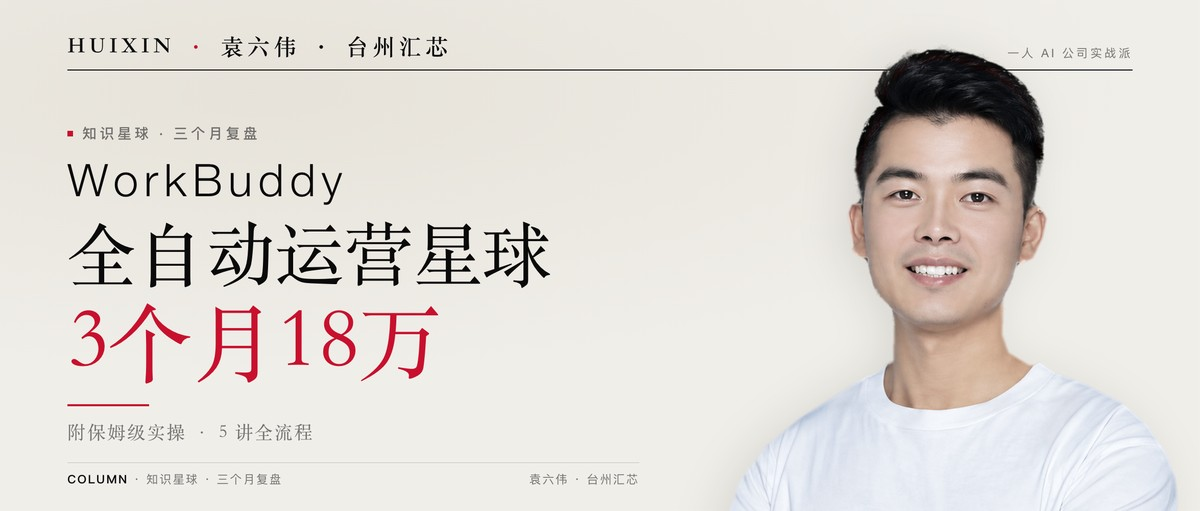
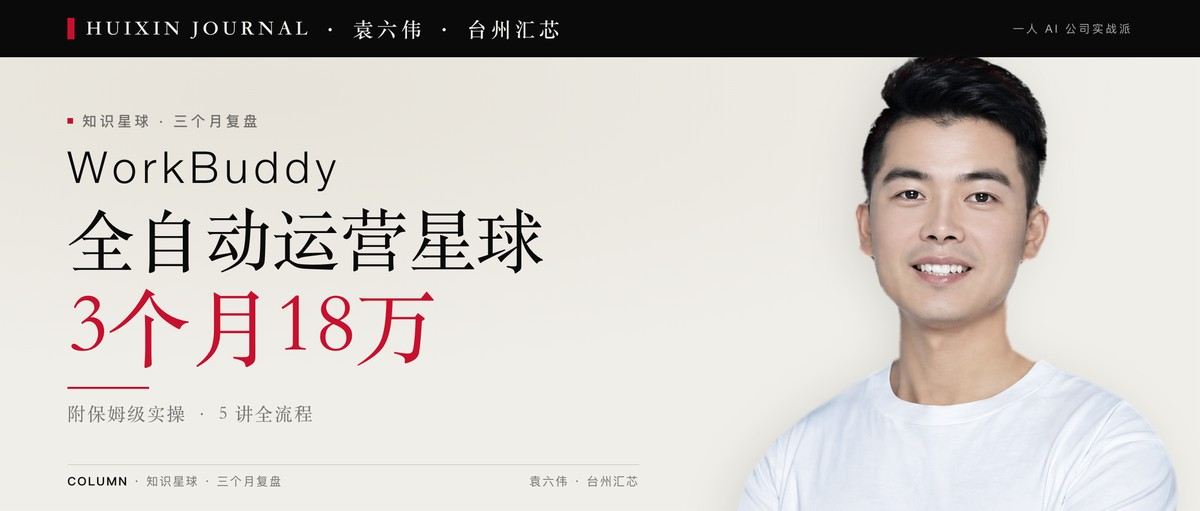
feat: high-contrast 6 cover layouts and cache-busting showcase v3

diff --git a/skills/公众号封面skill/scripts/render_cover_themes.py b/skills/公众号封面skill/scripts/render_cover_themes.py
@@ -291,34 +291,35 @@ def build_html(brief: dict, theme_key: str, portrait_uri: str, psize=(817, 883))
     <span class="strip-tag">{b['ip_tag']}</span>
   </div>"""
 
-    # 2) masthead：大刊报头 + 人物头顶破框叠压刊头细线
+    # 2) masthead：大刊报头（满宽深墨黑刊头条 + 人物头顶破框叠压）
     elif layout == "masthead":
-        p_h = 980
+        p_h = 960
         p_w = round(p_h * pw_ratio)
         p_left = W - p_w - 40
-        p_top = 86  # 刻意低于顶部 136px 报头线以下一点，使头部轻微破框叠压报头线
-        titles = _titles_html(b["lines"], t["weight"], 136, 168)
+        p_top = 92
+        titles = _titles_html(b["lines"], t["weight"], 134, 166)
         css = _base_css(t, theme_key) + f"""
-.masthead{{position:absolute;left:{TEXT_X}px;right:{TEXT_X}px;top:52px;height:86px;
-  border-bottom:2px solid {t['ink']};display:flex;justify-content:space-between;align-items:flex-end;padding-bottom:16px;z-index:1}}
-.mast-title{{font-family:{SERIF};font-size:44px;font-weight:700;letter-spacing:.18em;color:{t['ink']}}}
-.mast-title em{{font-style:normal;color:{t['accent']}}}
-.mast-meta{{font-family:{t['small_family']};font-size:23px;letter-spacing:.20em;color:{t['muted']};text-transform:uppercase}}
+.masthead{{position:absolute;left:0;right:0;top:0;height:112px;background:{t['ink']};
+  padding:0 {TEXT_X}px;display:flex;justify-content:space-between;align-items:center;z-index:1}}
+.mast-title{{font-family:{SERIF};font-size:40px;font-weight:700;letter-spacing:.18em;color:{t['paper']};
+  display:flex;align-items:center;gap:22px}}
+.mast-title .red-bar{{width:14px;height:42px;background:{t['accent']};display:inline-block}}
+.mast-meta{{font-family:{t['small_family']};font-size:22px;letter-spacing:.20em;color:rgba(241,239,234,.72);text-transform:uppercase}}
 .portrait{{position:absolute;left:{p_left}px;top:{p_top}px;width:{p_w}px;height:{p_h}px;
   object-fit:contain;object-position:bottom;filter:{SHADOW[theme_key]};z-index:2}}
-.txt{{position:absolute;left:{TEXT_X}px;top:210px;width:1160px;height:690px;z-index:3;
+.txt{{position:absolute;left:{TEXT_X}px;top:170px;width:1160px;height:710px;z-index:3;
   display:flex;flex-direction:column;justify-content:center}}
 .kicker{{margin-bottom:26px}}
-.brand{{font-size:88px;margin-bottom:16px}}
-.rule{{width:160px;height:4px;background:{t['accent']};margin:34px 0 24px}}
-.bottom-bar{{position:absolute;left:{TEXT_X}px;bottom:46px;width:1120px;border-top:1px solid {t['hair']};
+.brand{{font-size:86px;margin-bottom:16px}}
+.rule{{width:160px;height:4px;background:{t['accent']};margin:32px 0 22px}}
+.bottom-bar{{position:absolute;left:{TEXT_X}px;bottom:42px;width:1120px;border-top:1px solid {t['hair']};
   padding-top:16px;display:flex;justify-content:space-between;align-items:center;z-index:3;
   font-family:{SANS};font-size:23px;letter-spacing:.12em;color:{t['muted']}}}
 .bottom-bar strong{{color:{t['ink']};font-weight:600}}
 """
         body = f"""
   <div class="masthead">
-    <div class="mast-title">HUIXIN <em>·</em> {b['author']}</div>
+    <div class="mast-title"><i class="red-bar"></i><span>HUIXIN JOURNAL · {b['author']}</span></div>
     <div class="mast-meta">{b['ip_tag']}</div>
   </div>
   <img class="portrait" src="{portrait_uri}">
@@ -331,28 +332,30 @@ def build_html(brief: dict, theme_key: str, portrait_uri: str, psize=(817, 883))
   </div>
   <div class="bottom-bar"><span><strong>COLUMN</strong> · {b['kicker']}</span><span>{b['author']}</span></div>"""
 
-    # 3) archive-card：左侧大留白 + 右侧 1px 细框人物档案卡片 + IP 签名底栏
+    # 3) archive-card：左侧高亮反白结论 + 右侧微倾档案相框卡片
     elif layout == "archive-card":
         card_bg = t.get("card_bg", "#FFFFFF")
         p_h = 770
         p_w = round(p_h * pw_ratio)
-        titles = _titles_html(b["lines"], t["weight"], 138, 170)
+        titles = _titles_html(b["lines"], t["weight"], 134, 152)
         css = _base_css(t, theme_key) + f"""
 .txt{{position:absolute;left:{TEXT_X}px;top:0;width:1140px;height:{H}px;
   display:flex;flex-direction:column;justify-content:center}}
-.kicker{{margin-bottom:32px}}
-.brand{{font-size:92px;margin-bottom:16px}}
-.rule{{width:340px;height:2px;background:{t['accent']};margin:34px 0 24px}}
-.sub{{margin-bottom:44px}}
-.frame{{position:absolute;right:96px;top:62px;width:780px;height:876px;background:{card_bg};
-  border:2px solid {t['ink']};box-shadow:18px 18px 0 {t['accent']};overflow:hidden}}
+.kicker{{margin-bottom:28px}}
+.brand{{font-size:88px;margin-bottom:14px}}
+.tl.accent span{{display:inline-block;background:{t['accent']};color:{t['accent_on']};
+  padding:8px 26px 12px;margin-top:10px}}
+.rule{{width:340px;height:2px;background:{t['accent']};margin:34px 0 22px}}
+.sub{{margin-bottom:40px}}
+.frame{{position:absolute;right:104px;top:66px;width:760px;height:868px;background:{card_bg};
+  border:2.5px solid {t['ink']};box-shadow:22px 22px 0 {t['accent']};transform:rotate(-1.2deg);overflow:hidden}}
 .frame-top{{height:58px;border-bottom:1px solid {t['hair']};padding:0 28px;
   display:flex;justify-content:space-between;align-items:center;
   font-family:{t['small_family']};font-size:20px;font-weight:600;letter-spacing:.18em;color:{t['muted']}}}
-.frame-body{{position:relative;height:706px;overflow:hidden;background:{t['paper2']}}}
+.frame-body{{position:relative;height:698px;overflow:hidden;background:{t['paper2']}}}
 .portrait{{position:absolute;left:50%;transform:translateX(-50%);top:24px;width:{p_w}px;height:{p_h}px;
   object-fit:contain;object-position:bottom;filter:{SHADOW[theme_key]}}}
-.frame-foot{{height:110px;border-top:1.5px solid {t['ink']};padding:0 28px;background:{card_bg};
+.frame-foot{{height:110px;border-top:2px solid {t['ink']};padding:0 28px;background:{card_bg};
   display:flex;justify-content:space-between;align-items:center}}
 .frame-name{{font-family:{SERIF};font-size:32px;font-weight:700;color:{t['ink']};letter-spacing:.06em}}
 .frame-role{{font-family:{SANS};font-size:22px;color:{t['accent']};font-weight:600;letter-spacing:.08em}}
@@ -438,6 +441,8 @@ def build_html(brief: dict, theme_key: str, portrait_uri: str, psize=(817, 883))
   display:flex;flex-direction:column;justify-content:center}}
 .kicker{{margin-bottom:28px}}
 .brand{{font-size:90px;margin-bottom:16px}}
+.tl.accent span{{display:inline-block;background:{t['accent']};color:{t['accent_on']};
+  padding:8px 28px 12px;margin-top:8px;border-radius:12px}}
 .rule{{width:380px;height:3px;background:{t['accent']};margin:34px 0 24px}}
 .strip{{position:absolute;left:{TEXT_X}px;bottom:48px;width:1160px;display:flex;justify-content:space-between;align-items:center}}
 .strip-note{{font-family:{SANS};font-size:23px;color:{t['muted']};letter-spacing:.10em}}
@@ -460,13 +465,14 @@ def build_html(brief: dict, theme_key: str, portrait_uri: str, psize=(817, 883))
     <span class="strip-note">{b['ip_tag']}</span>
   </div>"""
 
-    # 6) cinema：电影宽银幕 + 暗底聚光 + 底部主创铭牌
+    # 6) cinema：电影宽银幕 + 暗底聚光 + 上下电影细金框 + 底部主创铭牌
     else:
         p_h = 1010
         p_w = round(p_h * pw_ratio)
         p_left = W - p_w - 20
         titles = _titles_html(b["lines"], t["weight"], 144, 178)
         css = _base_css(t, theme_key) + f"""
+.letterbox-top{{position:absolute;left:{TEXT_X}px;right:{TEXT_X}px;top:44px;height:1px;background:{t['hair']}}}
 .spot{{position:absolute;right:140px;top:120px;width:820px;height:820px;border-radius:50%;
   background:radial-gradient(circle, rgba(212,160,74,.20) 0%, transparent 66%);pointer-events:none}}
 .portrait{{position:absolute;left:{p_left}px;top:64px;width:{p_w}px;height:{p_h}px;
@@ -485,6 +491,7 @@ def build_html(brief: dict, theme_key: str, portrait_uri: str, psize=(817, 883))
 .credits strong{{color:{t['accent']};font-weight:600}}
 """
         body = f"""
+  <div class="letterbox-top"></div>
   <div class="spot"></div>
   <img class="portrait" src="{portrait_uri}">
   <div class="tint"></div>

diff --git a/README.md b/README.md
@@ -69,7 +69,7 @@ https://github.com/sixwei2025/wechat-cover-skill
 同一篇文章、同一张真人照片，通过 `scripts/render_cover_themes.py` 一键直出 6 套高客单价杂志封面：
 
 <p align="center">
-  <img src="assets/showcase/00-cover-six.jpg" alt="封面六套总览：午夜墨、纸本墨、牛皮纸、靛蓝瓷、瑞士蓝、汇芯红" width="100%" />
+  <img src="assets/showcase/00-cover-layouts-v3.jpg" alt="封面六套总览：午夜墨、纸本墨、牛皮纸、靛蓝瓷、瑞士蓝、汇芯红" width="100%" />
 </p>
 
 | 主题 ID | 风格名称 | 默认版式（`--layout`） | 底色 / 锚点色 | 最佳适用题材 |
